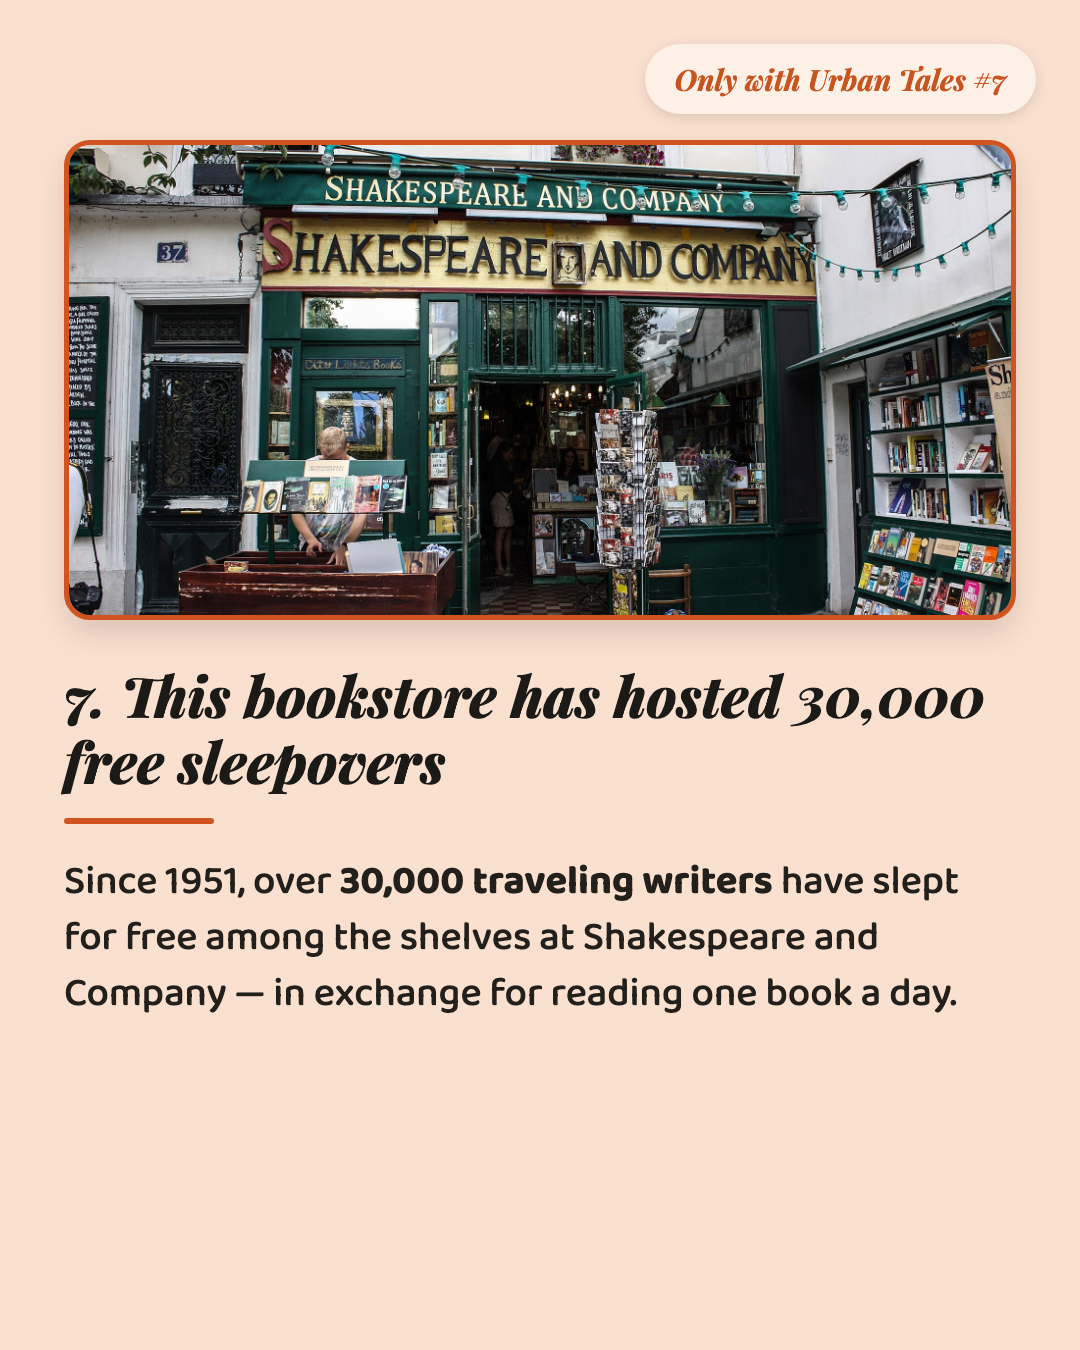
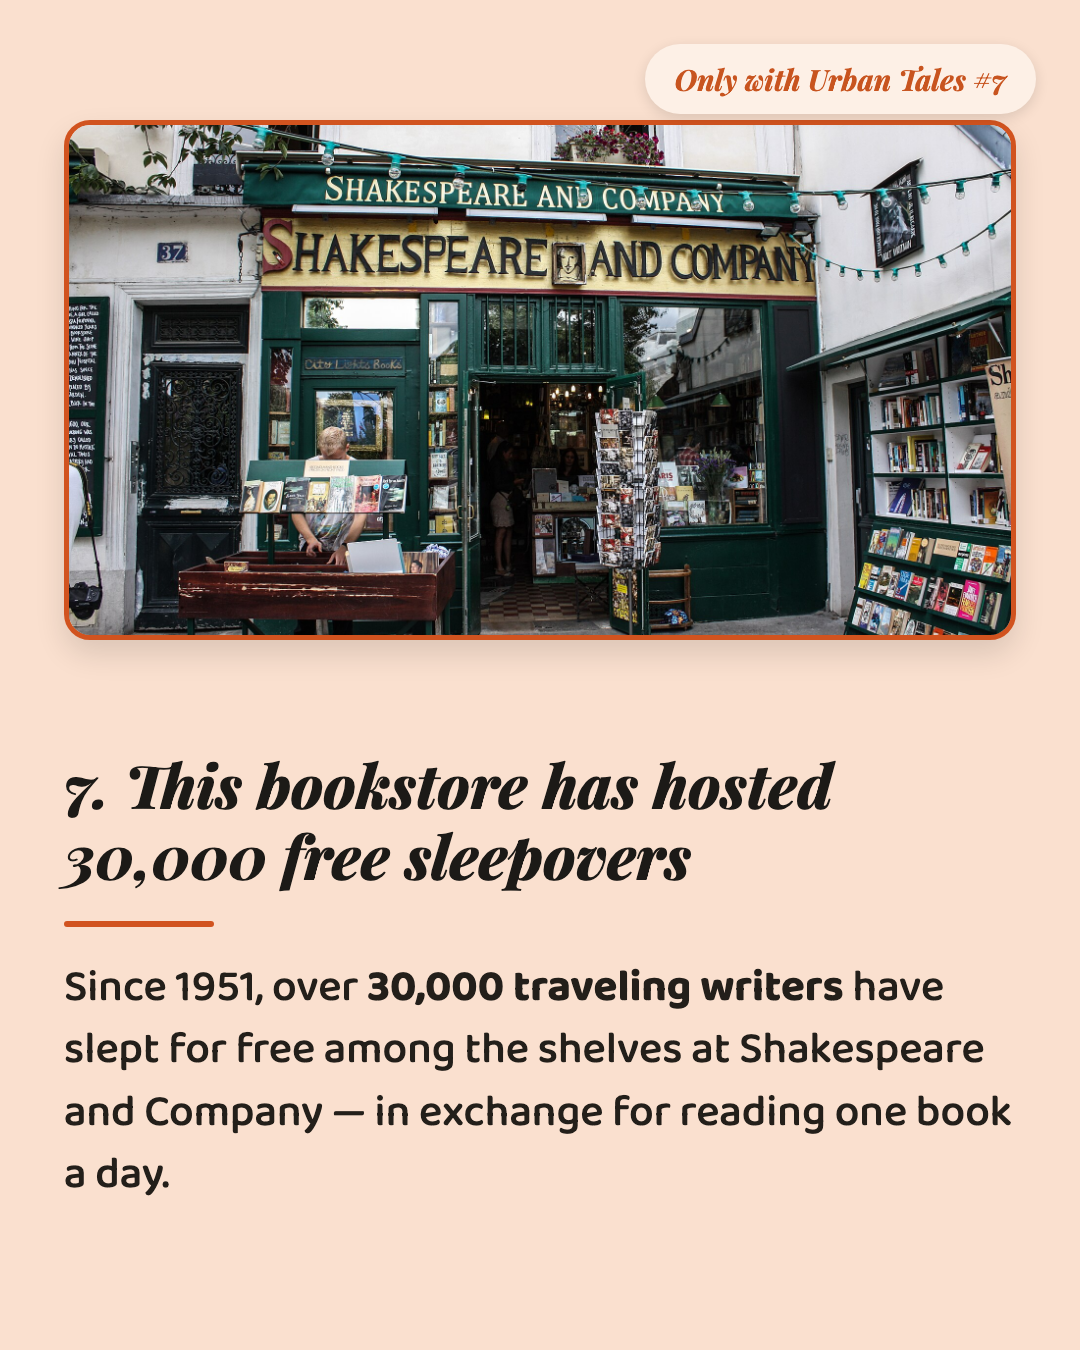
Fix fact-slide layout: center text block in remaining space, not top-anchored
Bumping font size alone didn't fix it — short facts still left a big
gap at the bottom because the text block was anchored right under the
photo. Now the headline/rule/body group is vertically centered within
the space below the photo via flexbox, so it adapts to text length
instead of always leaving dead space at the very bottom.

diff --git a/carousel/render.py b/carousel/render.py
@@ -90,16 +90,18 @@ def main():
         fact_html = f"""
         <div style="width:1080px;height:1350px;background:#fae0cf;position:relative;">
           <div class="badge">Only with Urban Tales #{badge}</div>
-          <div style="position:absolute; top:140px; left:64px; right:64px;">
-            <div style="width:952px; height:480px; border-radius:26px; border:5px solid #d1531f; overflow:hidden; box-shadow:0 14px 30px rgba(0,0,0,0.12);">
+          <div style="position:absolute; top:120px; left:64px; right:64px; bottom:70px; display:flex; flex-direction:column;">
+            <div style="width:952px; height:520px; flex-shrink:0; border-radius:26px; border:5px solid #d1531f; overflow:hidden; box-shadow:0 14px 30px rgba(0,0,0,0.12);">
               <img src="{img}" style="width:100%; height:100%; object-fit:cover;">
             </div>
-            <div style="font-family:'Playfair Display'; font-style:italic; font-weight:800; font-size:56px; color:#1c1a17; line-height:1.18; margin-top:42px;">
-              {i}. {fact['headline']}
-            </div>
-            <div style="width:150px; height:6px; background:#d1531f; margin-top:24px; border-radius:3px;"></div>
-            <div style="font-family:'Baloo 2'; font-weight:500; font-size:40px; color:#231f1a; line-height:1.4; margin-top:30px;">
-              {fact['body_html']}
+            <div style="flex:1; display:flex; flex-direction:column; justify-content:center; gap:30px; margin-top:36px;">
+              <div style="font-family:'Playfair Display'; font-style:italic; font-weight:800; font-size:60px; color:#1c1a17; line-height:1.18;">
+                {i}. {fact['headline']}
+              </div>
+              <div style="width:150px; height:6px; background:#d1531f; border-radius:3px;"></div>
+              <div style="font-family:'Baloo 2'; font-weight:500; font-size:44px; color:#231f1a; line-height:1.42;">
+                {fact['body_html']}
+              </div>
             </div>
           </div>
         </div>
